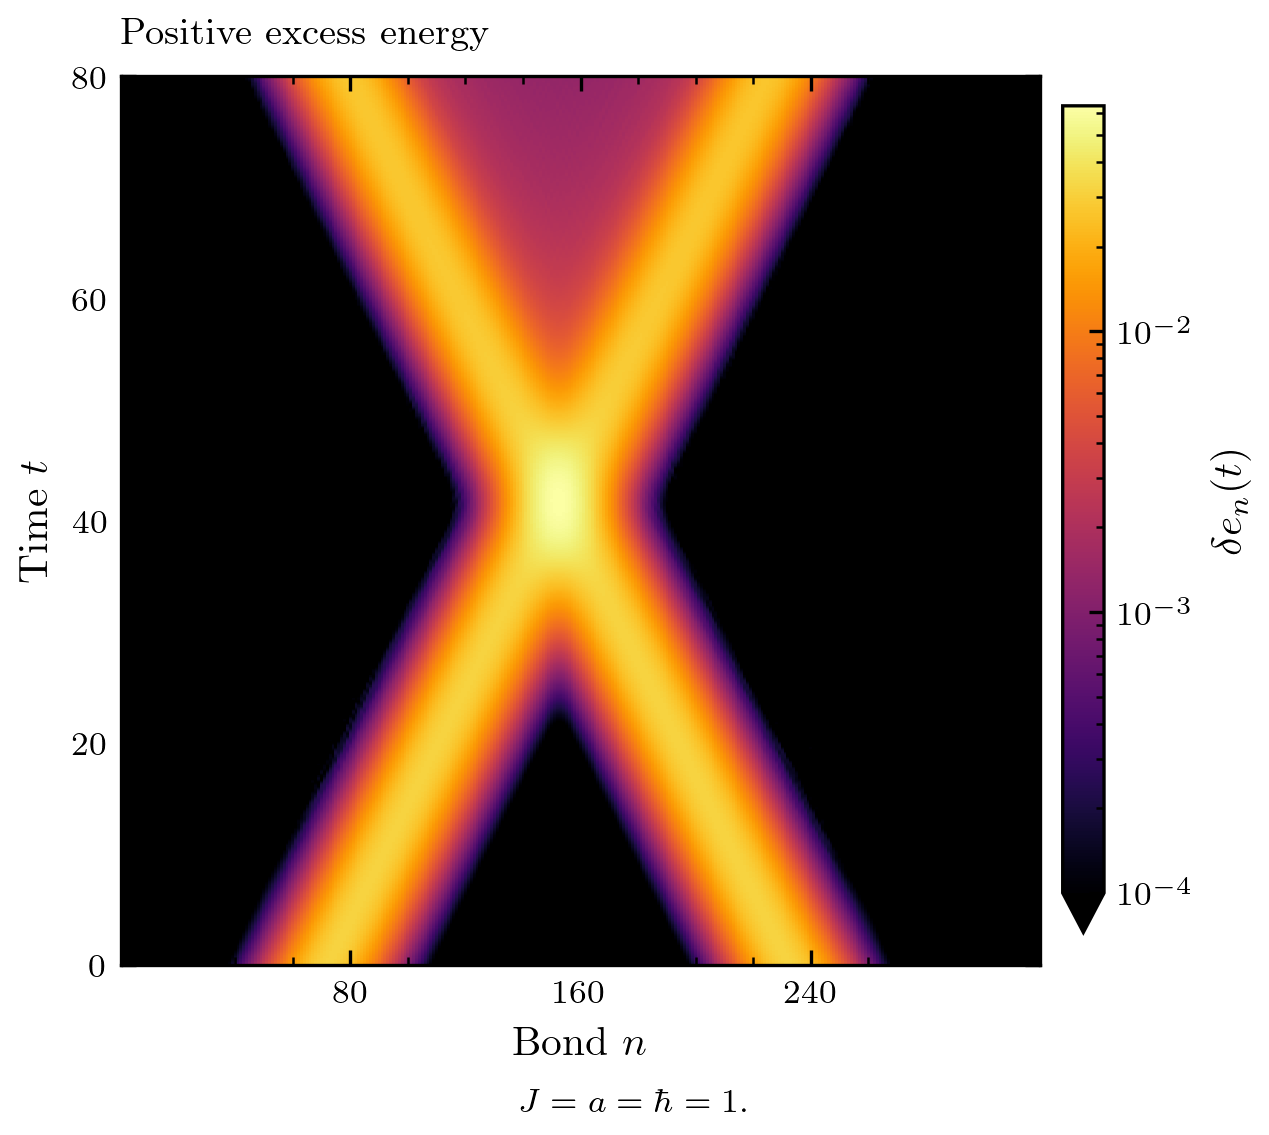
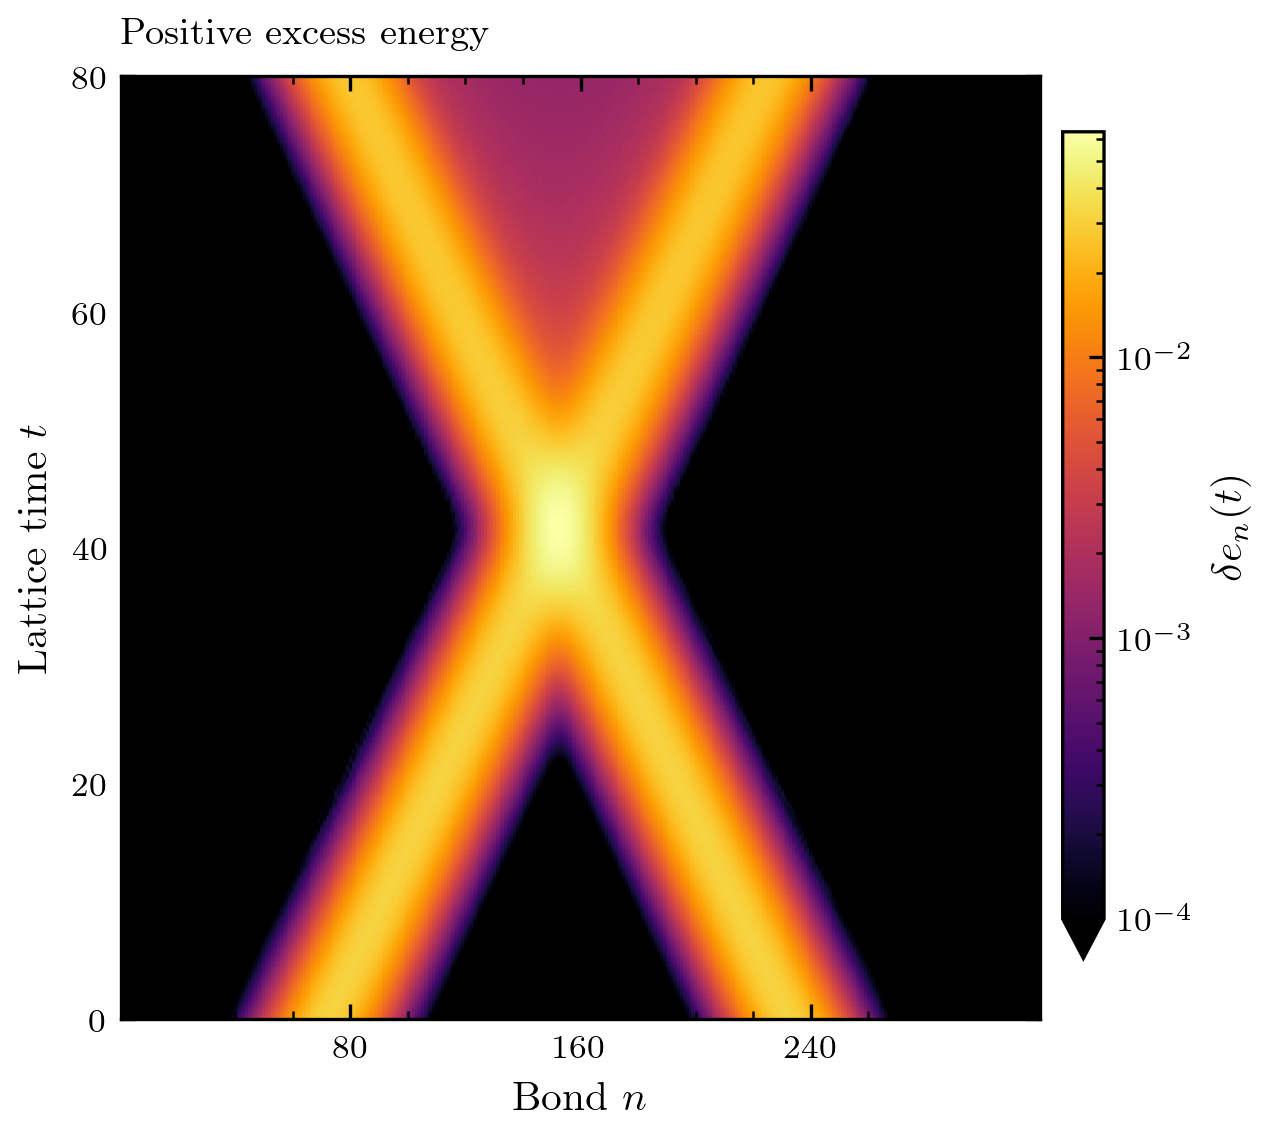
put the units in the caption and label lattice time

diff --git a/docs/src/demonstrations/ising-collision.md b/docs/src/demonstrations/ising-collision.md
@@ -24,9 +24,10 @@ its relation to the field theory.
 ![Vacuum-subtracted energy during the collision](../assets/ising-collision/energy.png)
 
 The colour shows the positive part of the vacuum-subtracted bond energy
-``\delta e_n(t)`` on a logarithmic scale starting at ``10^{-4}``. The packets
-meet near ``t=42``. After the collision, the two bright outer bands move
-apart, while a weaker signal remains between them. The logarithmic scale
+``\delta e_n(t)`` on a logarithmic scale starting at ``10^{-4}``. We use
+``J=a=\hbar=1``. The packets meet near lattice time ``t=42``. After the
+collision, the two bright outer bands move apart, while a weaker signal
+remains between them. The logarithmic scale
 makes this interior energy visible alongside the peaks. Negative local
 excess energy is possible because the subtraction is relative to the
 vacuum, rather than to the lowest eigenvalue of each individual bond
